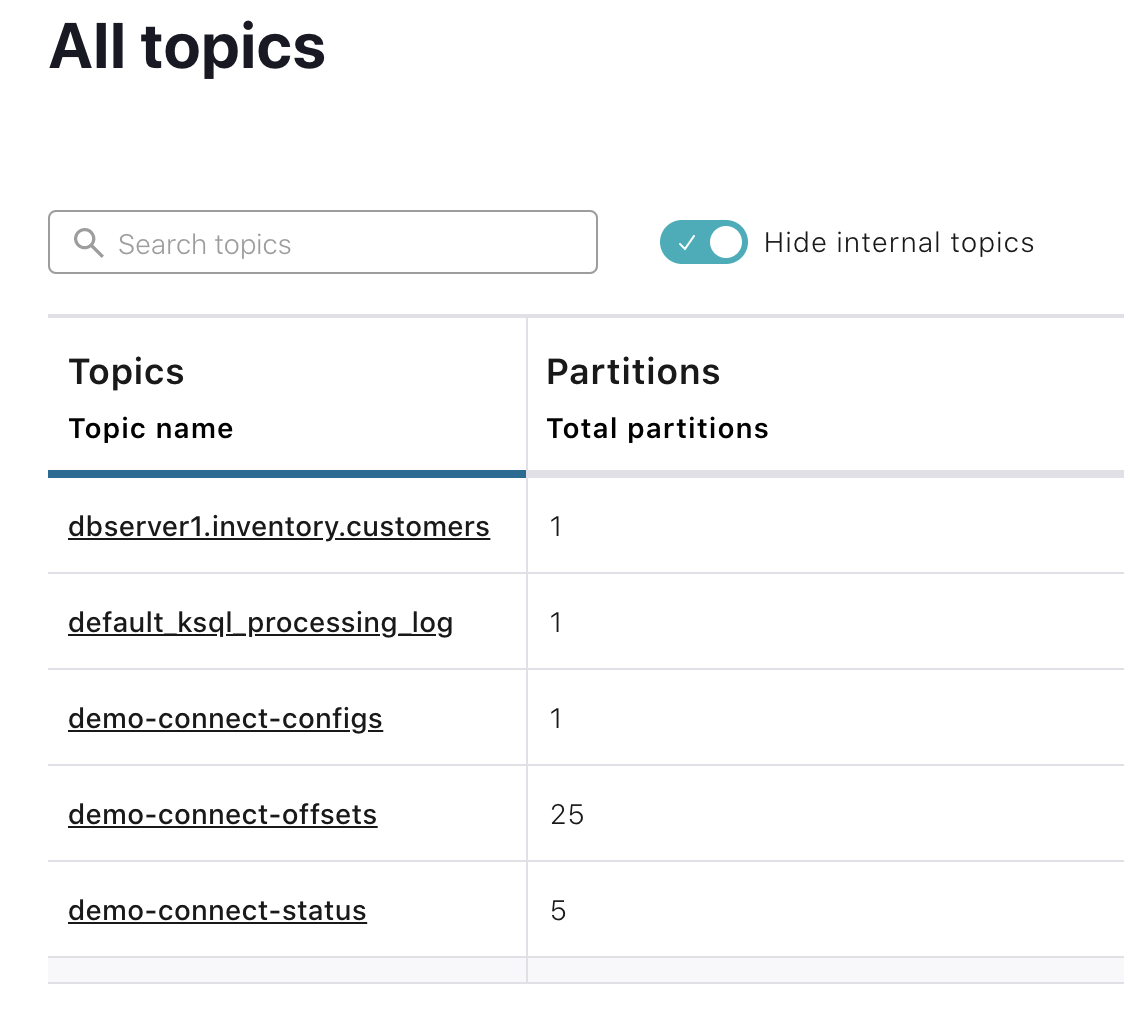
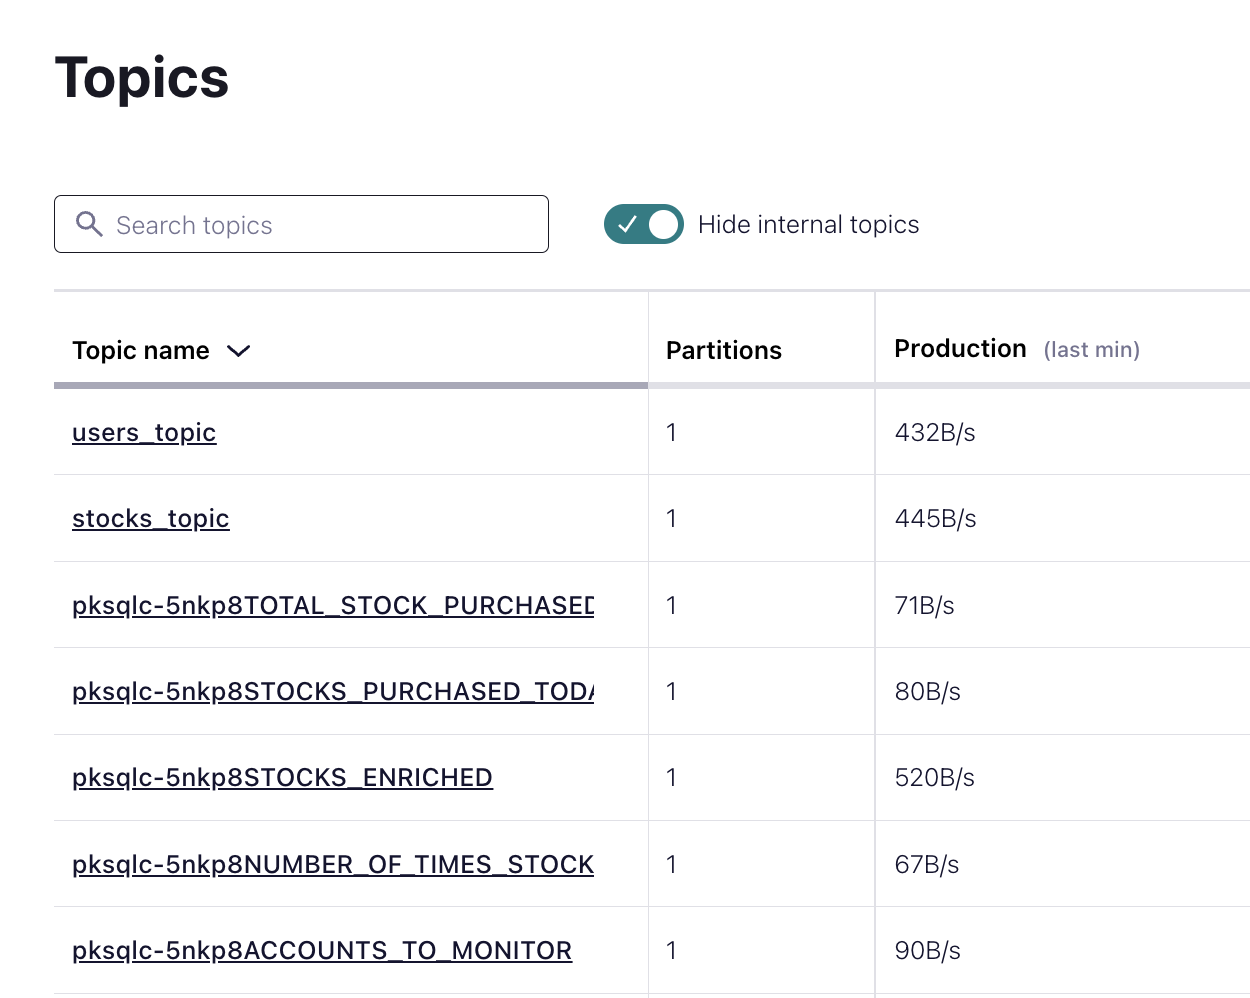
Adding new content

diff --git a/README.md b/README.md
@@ -624,7 +624,7 @@ SELECT * FROM STOCKS_ENRICHED
 </div>
 
 
-3. Navigate to Stream Lineage in the navigation. Stream lineage is used to understand complex data relationships and uncover more insights with interactive, end-to-end maps of event streams.
+3. Navigate to Stream Lineage in the navigation. Stream lineage is used to understand complex data relationships and uncover more insights with interactive, end-to-end maps of event streams. Below screenshot shows the current streams we created in the earlier section.
 
 <div align="center">
     <img src="images/stream-lineage.png" width=75% height=75%>
@@ -642,16 +642,9 @@ Confluent Cloud Schema Registry is used to manage schemas and it defines a scope
 
 A topic contains messages, and each message is a key-value pair. The message key or the message value (or both) can be serialized as JSON, Avro, or Protobuf. A schema defines the structure of the data format. 
 
-
-1. 
-  
-
-3. Next, you will create an API Key for Schema Registry. From here, click on the Edit icon under **API credentials**.
-4. Click on **Add key** and save your API key and secret - you will also need these during the workshop. Click on **Done**.
-5. **Important**: Make note of the **API endpoint**. You will use this endpoint in one of the steps later in the workshop.
+We will get back to this section later in the demo where we can go through the schemas, Schema Evolution, versions and such.
 
 ## <a name="step-13"></a>**Set up and Connect Self Managed Services to Confluent Cloud**
-
 
 Let’s say you have a database, or object storage such as AWS S3, Azure Blob Storage, or Google Cloud Storage, or a data warehouse such as Snowflake. How do you connect these data systems to your architecture?
 
@@ -666,7 +659,7 @@ If you want to run a connector not yet available as fully-managed in Confluent C
 
 Now that you have completed setting up your Confluent Cloud account, cluster, topic, and Schema Registry, this next step will guide you how to configure a local Connect cluster backed by your cluster in Confluent Cloud that you created earlier. 
 
-1. Click on **Connectors**, and then click on **Self Managed**. 
+1. Click on **Connectors**, and then in the Filter By section check on **Self Managed**. 
 
     > **Note:** Self Managed connectors are installed on a local Connect cluster backed by a source cluster in Confluent Cloud. This Connect cluster will be hosted and managed by you, and Confluent will fully support it. 
     
@@ -674,7 +667,7 @@ Now that you have completed setting up your Confluent Cloud account, cluster, to
        <img src="images/connectors-self-managed.png" width=75% height=75%>
     </div>
 
-1. To begin setting up **Connect**, you should have already cloned the repository during the Prerequisites step. If you have not, start by cloning Confluent's Commercial SE workshop repository.
+2. To begin setting up **Connect**, you should have already cloned the repository during the Prerequisites step. If you have not, start by cloning Confluent's Commercial SE workshop repository.
     > **Note:** This repository contains **all** of the workshops and workshop series led by Confluent's Commercial SE team. Be sure to navigate to the correct sub-directory to access the right content. 
     ```bash
     # Clone Confluent's Commercial SE Workshop repo
@@ -692,7 +685,7 @@ Now that you have completed setting up your Confluent Cloud account, cluster, to
 
     You will use `control-center` to configure `connect` to do change data capture from `postgres` before sending this data Confluent Cloud. 
 
-1. The next step is to replace the placeholder values surrounded in angle brackets within `setup.properties`. For reference, use the following table to fill out all the values completely.
+3. The next step is to replace the placeholder values surrounded in angle brackets within `setup.properties`. For reference, use the following table to fill out all the values completely.
 
     | property               | created in step                         |
     |------------------------|-----------------------------------------|
@@ -703,7 +696,7 @@ Now that you have completed setting up your Confluent Cloud account, cluster, to
     | `SCHEMA_REGISTRY_SECRET` | [*enable schema registry*](#enable-schema-registry)                  |
     | `SCHEMA_REGISTRY_URL`    | [*enable schema registry*](#enable-schema-registry)                  |
 
-1. View the **docker-compose.yml**. 
+4. View the **docker-compose.yml**. 
 
     This will launch a PostgreSQL database and 2 Confluent Platform components - a Connect cluster and Confluent Control Center. Control Center is used to monitor your Confluent deployment. The file will not provision the brokers because you will be using the cluster you created in Confluent Cloud.
 
@@ -711,14 +704,14 @@ Now that you have completed setting up your Confluent Cloud account, cluster, to
 
     You will be using Docker during this workshop. Alternatively, you can set up these Confluent Platform components and connect them to Confluent Cloud by installing Confluent Platform as a local install.
 
-1. Run the following command to export the required properties to the console. 
+5. Run the following command to export the required properties to the console. 
     ```bash
     # export the variables to the console
     source setup.properties
     ```
 
 
-1. Validate your credentials to Confluent Cloud Schema Registry.
+6. Validate your credentials to Confluent Cloud Schema Registry.
     ```bash
     curl -u $SCHEMA_REGISTRY_BASIC_AUTH_USER_INFO $SCHEMA_REGISTRY_URL/subjects
     ```
@@ -744,7 +737,8 @@ You have successfully installed the Debezium PostgreSQL CDC Source connector on 
 
 You have seen and worked within the Confluent Cloud Dashboard in the previous steps. Because you have Confluent Platform services deployed, you can use Confluent Control Center (C3) to manage and monitor Confluent Platform, and it is also connected to Confluent Cloud from your set up. You will see confirmation that Control Center is indeed connected to Confluent Cloud by the end of this step.
 
-1. Open a browser and go to **http://localhost:9021/** to access Confluent Control Center.
+1. In the confluent cloud demo cluster, create a topic named: dbserver1.inventory.customers with 1 partition. We will use the topic here in the connect demo
+2. Open a browser and go to **http://localhost:9021/** to access Confluent Control Center.
 
     <div align="center">
        <img src="images/c3-landing-page.png" width=50% height=50%>
@@ -752,30 +746,30 @@ You have seen and worked within the Confluent Cloud Dashboard in the previous st
 
     You will notice that the UI looks very similar to the Confluent Cloud dashboard. 
 
-2. Click on the cluster, then click on **Topics**, and you should notice the **dbserver1.inventory.customers** topic that you had created in Confluent Cloud in Step 3. This is your first confirmation that Control Center and local Connect cluster are successfully connected to Confluent Cloud.
+3. Click on the cluster, then click on **Topics**, and you should notice the **stocks_topic** topic that you had created in Confluent Cloud earlier in the Demo. This is your first confirmation that Control Center and local Connect cluster are successfully connected to Confluent Cloud.
     
     <div align="center">
        <img src="images/c3-all-topics.png" width=50% height=50%>
     </div>
 
-3. Click on **Connect**. You will see a cluster already here named **connect-default**. If not, please refresh the page. This is your local Connect cluster that you have running in Docker. 
+4.Click on **Connect**. You will see a cluster already here named **connect-default**. If not, please refresh the page. This is your local Connect cluster that you have running in Docker. 
 
     <div align="center">
        <img src="images/c3-all-connect.png" width=75% height=75%>
     </div>
 
-4. Click on **connect-default**, **Add Connector**, and then on the **PostgresConnector Source** tile. 
+5. Click on **connect-default**, **Add Connector**, and then on the **PostgresConnector Source** tile. 
 
     <div align="center">
        <img src="images/c3-browse-connect.png" width=75% height=75%>
     </div>
 
-5. As the final step in deploying the self managed PostgreSQL CDC Source connector, you will now create the connector. Enter the following configuration details:
+6. As the final step in deploying the self managed PostgreSQL CDC Source connector, you will now create the connector. Enter the following configuration details:
     ```bash
     Name = PostgresSource
     Tasks max = 1
     Namespace = dbserver1
-    Hostname = 0.0.0.0 
+    Hostname = postgres
     Port = 5432
     User = postgres
     Password = confluent2021
@@ -784,24 +778,24 @@ You have seen and worked within the Confluent Cloud Dashboard in the previous st
 
     If you have networking rules that may not allow for connection to 0.0.0.0, then use *docker.for.mac.host.internal* as the hostname for Mac and use *docker.for.win.localhost* for Windows.
 
-6. Scroll down to the very bottom of the page, click on **Continue**, review the configuration details, then click on **Launch.**
+7. Scroll down to the very bottom of the page, click on **Continue**, review the configuration details, then click on **Launch.**
     <div align="center">
        <img src="images/c3-launch-connector.png" width=75% height=75%>
     </div>
 
-7. Verify that the connector is running.
+8. Verify that the connector is running.
 
     <div align="center">
        <img src="images/c3-running-connectors.png" width=75% height=75%>
     </div>
 
-8. Return to the Confluent Cloud UI, click on your cluster tile, then on **Topics**, then on the topic **dbserver1.inventory.customers**. You will now confirm that your PostgreSQL connector is working by checking to see if data is being produced to our Confluent Cloud cluster. You will see data being produced under the **Production** tile. 
+9. Return to the Confluent Cloud UI, click on your cluster tile, then on **Topics**, then on the topic **dbserver1.inventory.customers**. You will now confirm that your PostgreSQL connector is working by checking to see if data is being produced to our Confluent Cloud cluster. You will see data being produced under the **Production** tile. 
 
-9. Another way to confirm is to view the messages within the UI. Click on **Messages**. In the search bar at the top, set it to **Jump to Offset**. Enter **0** as the offset and click on the result **0 / Partition: 0**. 
+10. Another way to confirm is to view the messages within the UI. Click on **Messages**. In the search bar at the top, set it to **Jump to Offset**. Enter **0** as the offset and click on the result **0 / Partition: 0**. 
 
     Remember, you created this topic with 1 partition. That partition is Partition 0.
     
-10. You should now be able to see the messages within the UI. Click on the cards view (left option) to see the messages in a different format.
+11. You should now be able to see the messages within the UI. Click on the cards view (left option) to see the messages in a different format.
 
     <div align="center">
        <img src="images/c3-cards.png" width=25% height=25%>
